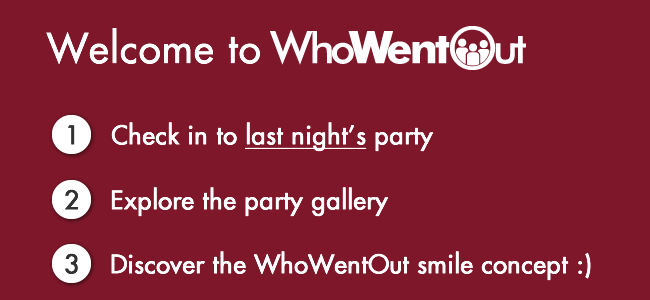
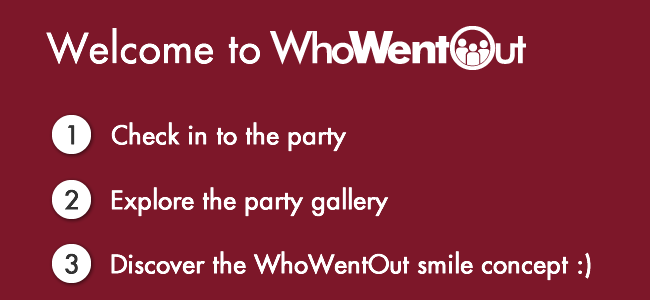
changed site help

Changed region(s): [[0.3692, 0.39, 0.6769, 0.51]]

diff --git a/whowentout/modules/whowentout.website/whowentout.help/views/site_help.view.php b/whowentout/modules/whowentout.website/whowentout.help/views/site_help.view.php
@@ -1,4 +1,4 @@
 <div class="site_help_view help_container">
-    <img src="/assets/images/site_help.png?version=10" />
+    <img src="/assets/images/site_help.png?version=11" />
 </div>
     
